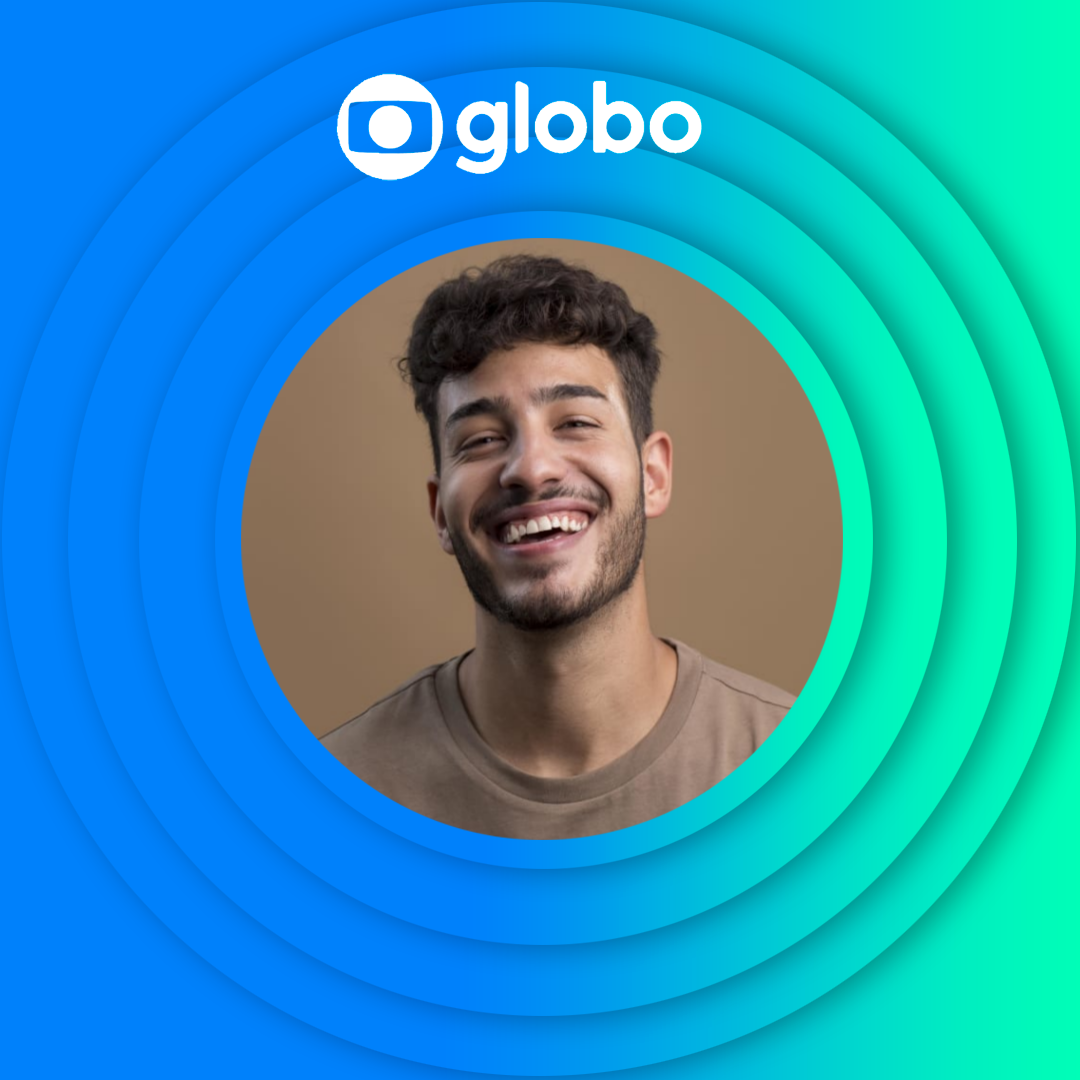
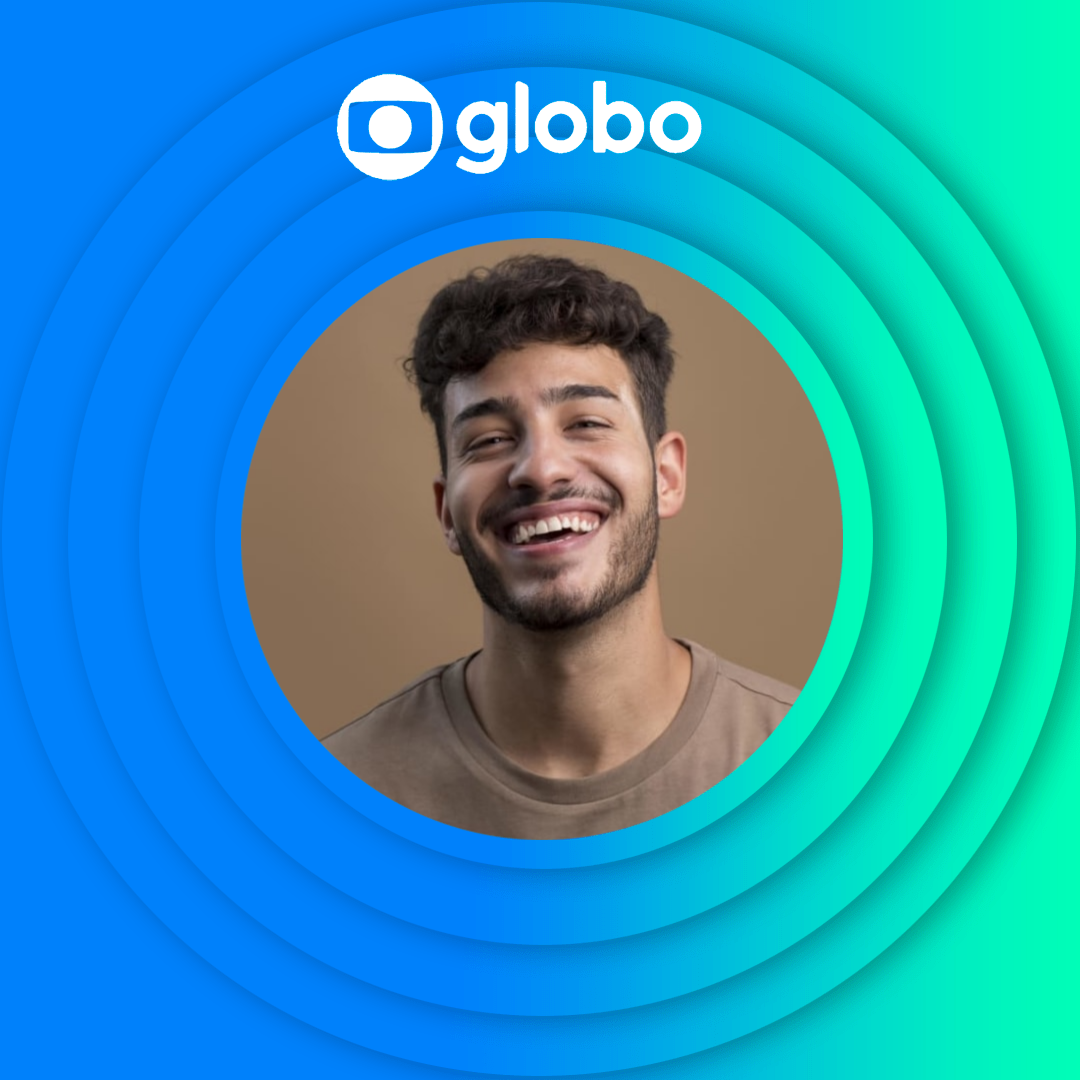
feat: update with unnecessary use of cloudinary

Changed region(s): [[0.3667, 0.2444, 0.7333, 0.7333], [0.3972, 0.2444, 0.4583, 0.275], [0.3361, 0.6417, 0.3667, 0.6722]]

diff --git a/server/api/middlewares/cloudinary.middleware.js b/server/api/middlewares/cloudinary.middleware.js
@@ -1,6 +1,6 @@
 const axios = require('axios');
 
-const saveInCloudinary = async (image) => {
+const saveInCloudinary = async (image, w, h) => {
     const data = JSON.stringify({
         "file": `${image}`,
         "api_key": "429282383232114",
@@ -16,13 +16,21 @@ const saveInCloudinary = async (image) => {
         data: data
     };
 
-    return axios(config)
+    const cloudinaryImage = await axios(config)
         .then(async function (response) {
             return await response.data.url;
         })
         .catch(function (error) {
             console.log(error);
         });
+
+    const cloudinaryImageFaceCenter = (cloudinaryImage.split('upload/')[0] + `upload/c_fill,g_face:center,h_${parseInt(h)},w_${parseInt(w)}/` + cloudinaryImage.split('upload/')[1]);
+
+    console.log(cloudinaryImageFaceCenter);
+
+    return cloudinaryImageFaceCenter;
 }
 
 module.exports = saveInCloudinary;
+
+//  const cloudnaryImage = await saveInCloudinary(content.src, width, heigth);

diff --git a/server/api/helpers/loadImage.js b/server/api/helpers/loadImage.js
@@ -1,11 +1,11 @@
 const { loadImage } = require('canvas');
-const saveInCloudinary = require('../middlewares/cloudinary.middleware');
 const loadImageUrl = async (ctx, content) => {
 
-  const cloudnaryImage = await saveInCloudinary(content.src);
-  const cloudnaryImageFaceCenter = (cloudnaryImage.split('upload/')[0] + 'upload/c_fill,g_face:center,h_500,w_500/' + cloudnaryImage.split('upload/')[1]);
-  const imageUrl = await loadImage(cloudnaryImageFaceCenter);
-  ctx.drawImage(imageUrl, content.left, content.top, content.width * content.scaleX, content.height * content.scaleY);
+  const width = content.width * content.scaleX;
+  const heigth = content.height * content.scaleY;
+
+  const imageUrl = await loadImage(content.src);
+  ctx.drawImage(imageUrl, content.left, content.top, width, heigth);
 
 };
 
